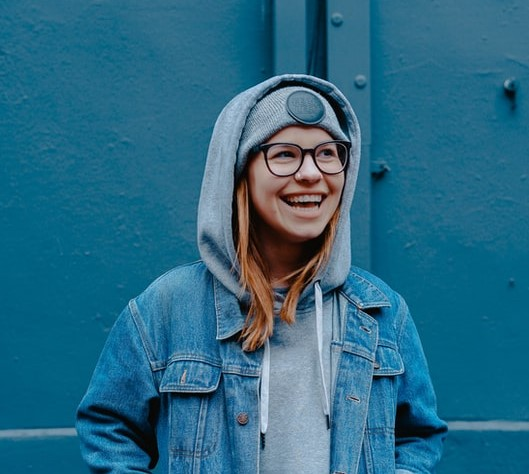
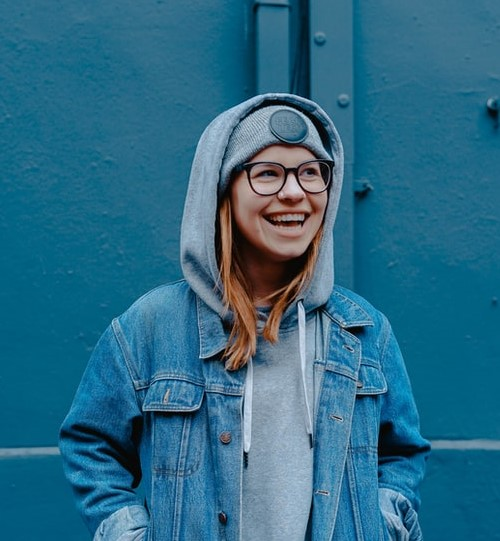
//

diff --git a/meetOurTeam.html b/meetOurTeam.html
@@ -118,16 +118,22 @@ Work phone: 555-88-121 <br>
 	<div class="item teamitem meet-team7">
 		<img id="#" src="https://1.bp.blogspot.com/-CQImccd4QGI/UVbN5i2rRfI/AAAAAAAAEHo/sowZiXQQNts/s1600/Animal+Fashion.jpg">
 		<div>
-			<h3>Navn</h3>
-			<p>Beskrivelse</p>
+			<h3>Sooraj Bhatta</h3>
+			<p>Consultant (Economic innovation)  <br>
+sooraj.bhatta@inova.com <br>
+Work phone: 555-88-126 <br>
+</p>
 		</div>
 	</div>
 
 	<div class="item teamitem meet-team8">
-		<img id="#" src="https://static.boredpanda.com/blog/wp-content/uploads/2016/09/animals-dressed-like-humans-zoo-porraits-yago-partal-8-57d65cb587324__880.jpg">
+		<img id="#" src="ekatarina.jpg">
 		<div>
-			<h3>Navn</h3>
-			<p>Beskrivelse</p>
+			<h3>Ekaterina Ivanovna </h3>
+			<p>HR <br>
+ekaterina.ivanovna@inova.com  <br>
+Work phone: 555-88-127  <br>
+</p>
 		</div>
 	</div>
 
